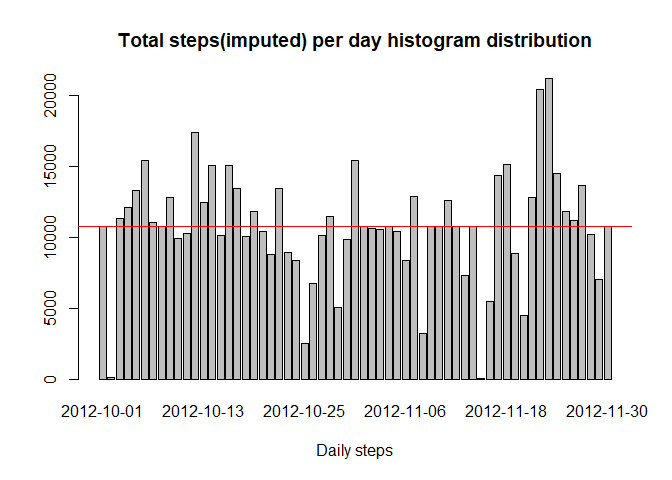
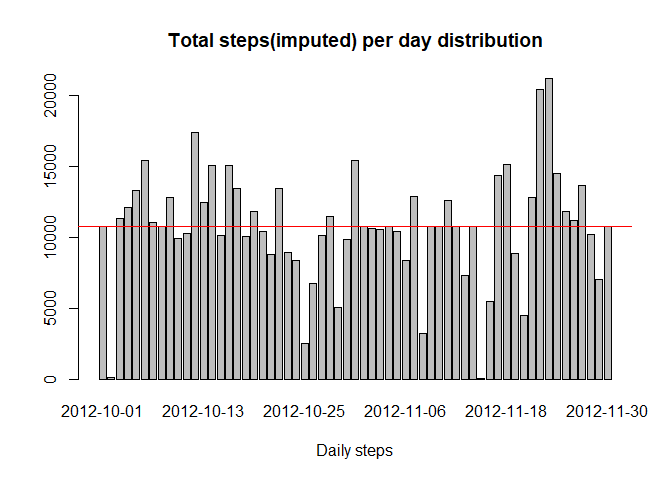
Add files via upload

Changed region(s): [[0.1562, 0.0625, 0.875, 0.125]]

diff --git a/PA1_template.html b/PA1_template.html
@@ -159,10 +159,12 @@ df$date2 &lt;- as.Date(df$date,&quot;%Y-%m-%d&quot;)</code></pre>
 <pre class="r"><code># Calculate daily sum of steps
 stepsday&lt;-tapply(df$steps, df$date2, FUN=sum, na.rm=TRUE)
 #Plot histogram for the daily sum of the steps
-barplot(stepsday,main = &quot;Total steps per day histogram distribution&quot;,xlab = &quot;Daily steps&quot;)
+barplot(stepsday,main = &quot;Total steps per day distribution&quot;,xlab = &quot;Daily steps&quot;)
 abline(h=mean(stepsday))
 abline(h=median(stepsday), col=&quot;red&quot;)</code></pre>
[2 lines of base64/hex data omitted]
+<pre class="r"><code>hist(stepsday,main = &quot;Total steps per day histogram distribution&quot;,xlab = &quot;Daily steps&quot;)</code></pre>
[1 lines of base64/hex data omitted]
 <pre class="r"><code>#Calculate mean of daily sum of steps black line
 mean(stepsday)</code></pre>
 <pre><code>## [1] 9354.23</code></pre>
@@ -197,10 +199,12 @@ df_imputed$steps[is.na(df$steps)] &lt;- stepsmeanint[as.character(dfna$interval)
 # Calculate daily sum of imputed steps
 stepsday_imp&lt;-tapply(df_imputed$steps, df_imputed$date2, FUN=sum, na.rm=TRUE)
 # Plot histogram for the daily sum of the steps
-barplot(stepsday_imp,main = &quot;Total steps(imputed) per day histogram distribution&quot;,xlab = &quot;Daily steps&quot;)
+barplot(stepsday_imp,main = &quot;Total steps(imputed) per day distribution&quot;,xlab = &quot;Daily steps&quot;)
 abline(h=mean(stepsday_imp))
 abline(h=median(stepsday_imp), col=&quot;red&quot;)</code></pre>
[2 lines of base64/hex data omitted]
+<pre class="r"><code>hist(stepsday_imp,main = &quot;Total steps per day (imputed) histogram distribution&quot;,xlab = &quot;Daily steps&quot;)</code></pre>
[1 lines of base64/hex data omitted]
 <pre class="r"><code># Calculate mean of daily sum of imputed steps black line
 mean(stepsday_imp)</code></pre>
 <pre><code>## [1] 10766.19</code></pre>

diff --git a/PA1_template.md b/PA1_template.md
@@ -38,12 +38,18 @@ Calculating daily sum of the steps
 # Calculate daily sum of steps
 stepsday<-tapply(df$steps, df$date2, FUN=sum, na.rm=TRUE)
 #Plot histogram for the daily sum of the steps
-barplot(stepsday,main = "Total steps per day histogram distribution",xlab = "Daily steps")
+barplot(stepsday,main = "Total steps per day distribution",xlab = "Daily steps")
 abline(h=mean(stepsday))
 abline(h=median(stepsday), col="red")
 ```
 
 ![](PA1_template_files/figure-html/mean_total_steps_daily-1.png)<!-- -->
+
+```r
+hist(stepsday,main = "Total steps per day histogram distribution",xlab = "Daily steps")
+```
+
+![](PA1_template_files/figure-html/mean_total_steps_daily-2.png)<!-- -->
 
 ```r
 #Calculate mean of daily sum of steps black line
@@ -110,12 +116,18 @@ df_imputed$steps[is.na(df$steps)] <- stepsmeanint[as.character(dfna$interval)]
 # Calculate daily sum of imputed steps
 stepsday_imp<-tapply(df_imputed$steps, df_imputed$date2, FUN=sum, na.rm=TRUE)
 # Plot histogram for the daily sum of the steps
-barplot(stepsday_imp,main = "Total steps(imputed) per day histogram distribution",xlab = "Daily steps")
+barplot(stepsday_imp,main = "Total steps(imputed) per day distribution",xlab = "Daily steps")
 abline(h=mean(stepsday_imp))
 abline(h=median(stepsday_imp), col="red")
 ```
 
 ![](PA1_template_files/figure-html/impute_missing_values-1.png)<!-- -->
+
+```r
+hist(stepsday_imp,main = "Total steps per day (imputed) histogram distribution",xlab = "Daily steps")
+```
+
+![](PA1_template_files/figure-html/impute_missing_values-2.png)<!-- -->
 
 ```r
 # Calculate mean of daily sum of imputed steps black line
